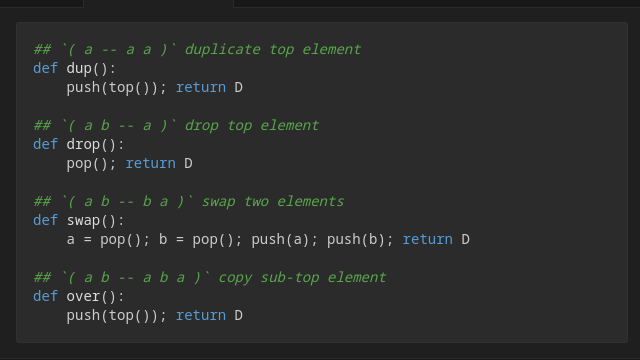
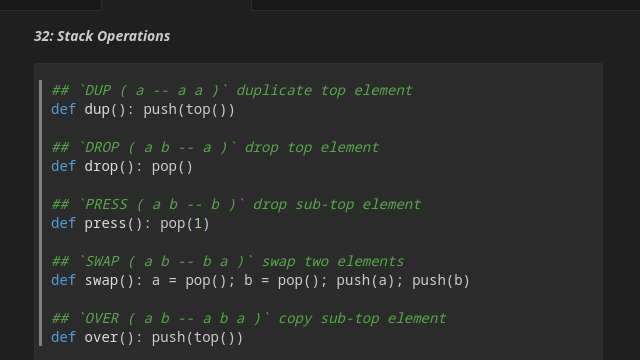
.

diff --git a/lib/test_FORTH.py b/lib/test_FORTH.py
@@ -11,42 +11,77 @@ class TestD:
     def clear_stack(self): clear()
     # yield; D.clear() # optional clean after test
 
-    def test_push(self): assert push(1) == [1]; assert D == [1]
+    class TestStack:
 
-    def test_pop(self):
-        push(1); push(2); push(3); assert D == [1, 2, 3]
-        assert pop() == 3; assert D == [1, 2]
-        assert pop(1) == 1; assert D == [2]
+        ## `( -- cell )`
+        def test_push(self):
+            push(1); assert D == [1]
 
-    def test_top(self): push(1); assert top() == 1; assert D == [1]
+        ## `( cell -- )`
+        def test_pop(self):
+            push(1); push(2); push(3); assert D == [1, 2, 3]
+            assert pop() == 3; assert D == [1, 2]
+            assert pop(1) == 1; assert D == [2]
 
-    def test_clear(self): clear(); depth(); assert D == [0]
+        ## `( cell -- cell )`
+        def test_top(self):
+            push(1); assert top() == 1; assert D == [1]
 
-    def test_depth(self):
-        assert depth() == [0]
-        push(1); push(2); push(3)
-        assert depth() == [0, 1, 2, 3, 4] # with previous and new depth's
+        ## `CLEAR ( ... -- )`
+        def test_clear(self):
+            push(1); clear(); depth(); assert D == [0]
 
-    def test_dup(self):
-        push(1); dup(); assert D == [1, 1]
+        ## `DUP ( a -- a a )`
+        def test_dup(self):
+            push(1); dup(); assert D == [1, 1]
 
-    def test_drop(self):
-        push(1); push(2); drop(); assert D == [1]
+        ## `DROP ( a b -- a )`
+        def test_drop(self):
+            push(1); push(2); drop(); assert D == [1]
 
-    def test_swap(self):
-        push(1); push(2); swap(); assert D == [2, 1]
+        ## `PRESS ( a b -- b )`
+        def test_press(self):
+            push(1); push(2); press(); assert D == [2]
 
-    def test_over(self):
-        push(1); push(2); over(); assert D == [1, 2, 1]
+        ## `SWAP ( a b -- b a )`
+        def test_swap(self):
+            push(1); push(2); swap(); assert D == [2, 1]
 
-    def test_rot(self):
-        push(1); push(2); push(3); rot(); assert D == [2, 3, 1]
+        ## `OVER ( a b -- a b a )`
+        def test_over(self):
+            push(1); push(2); over(); assert D == [1, 2, 1]
 
-    def test_mrot(self):
-        push(1); push(2); push(3); mrot(); assert D == [3, 1, 2]
+        ## `ROT ( a b c -- b c a )`
+        def test_rot(self):
+            push(1); push(2); push(3); rot(); assert D == [2, 3, 1]
 
-    def test_pick(self):
-        push(1); push(2); push(3); rot(); pick(); assert D == [2, 3, 2]
+        ## `-ROT ( a b c -- c a b )`
+        def test_mrot(self):
+            push(1); push(2); push(3); mrot(); assert D == [3, 1, 2]
+
+        ## `PICK ( ... n -- ... D[n] )`
+        def test_pick(self):
+            push(1); push(2); push(3); rot(); pick(); assert D == [2, 3, 2]
+
+        ## `DEPTH ( ... -- ... n )`
+        def test_depth(self):
+            assert depth() == [0]
+            push(1); push(2); push(3)
+            assert depth() == [0, 1, 2, 3, 4] # with previous and new depth's
+
+    class TestMath:
+
+        def test_add(self):
+            push(+123); push(-456); add(); assert D == [+123 + -456]
+
+        def test_sub(self):
+            push(+123); push(-456); add(); assert D == [+123 - -456]
+
+        def test_mul(self):
+            push(+123); push(-456); add(); assert D == [+123 * -456]
+
+        def test_div(self):
+            push(+123); push(-456); add(); assert D == [+123 / -456]
 
 ## test @ref R return stack operations
 class TestR:

diff --git a/doc/slide/slide.py b/doc/slide/slide.py
@@ -1,10 +1,10 @@
 import os, re
 import ffmpeg
 
-try: os.mkdir('tmp/slide')
-except FileExistsError: pass
+# try: os.mkdir('tmp/slide')
+# except FileExistsError: pass
 
-mp4 = 'tmp/slide/mp4.mp4'
+# mp4 = 'tmp/slide/mp4.mp4'
 
 def tts(name):
     mp3 = f'tmp/slide/{name}.mp3'
@@ -17,19 +17,19 @@ def tts(name):
     print(ru2mp3); os.system(ru2mp3)
     return mp3
 
-# video fragments
-fragment = {
-    '00': {'png': 'doc/splash.png', 'mp3': 'doc/dos.mp3', } # splashscreen
-}
+# # video fragments
+# fragment = {
+#     '00': {'png': 'doc/splash.png', 'mp3': 'doc/dos.mp3', } # splashscreen
+# }
 
-for i in filter(lambda name: re.match(r'\d+.(md|png)', name), os.listdir('doc/slide')):
-    name, ext = i.split('.')
-    if name not in fragment.keys(): fragment[name] = {}
-    match ext:
-        case 'md':
-            fragment[name]['mp3'] = f'tmp/slide/{name}.mp3'
-        case 'png':
-            fragment[name]['png'] = f'doc/slide/{name}.png'
+# for i in filter(lambda name: re.match(r'\d+.(md|png)', name), os.listdir('doc/slide')):
+#     name, ext = i.split('.')
+#     if name not in fragment.keys(): fragment[name] = {}
+#     match ext:
+#         case 'md':
+#             fragment[name]['mp3'] = f'tmp/slide/{name}.mp3'
+#         case 'png':
+#             fragment[name]['png'] = f'doc/slide/{name}.png'
 
 def slide(k, video, audio, dura):
     video = ffmpeg.input(video, loop=1, framerate=1)
@@ -65,16 +65,16 @@ grab('33', 710, 75)
 single('33')
 
 # mas
-grab('32', x=1225, y=370)
+grab('32', x=1250, y=370)
 single('32')
 
-with open('tmp/slide/fragments.list', 'w') as list:
-    with open('tmp/slide/m3u.m3u', 'w') as m3u:
-        for k in sorted(fragment.keys()):
-            single(k)
-            print(f'{k}.mp4', file=m3u)
-            print(f'file {k}.mp4', file=list)
+# with open('tmp/slide/fragments.list', 'w') as list:
+#     with open('tmp/slide/m3u.m3u', 'w') as m3u:
+#         for k in sorted(fragment.keys()):
+#             single(k)
+#             print(f'{k}.mp4', file=m3u)
+#             print(f'file {k}.mp4', file=list)
 
-os.system('cvlc tmp/slide/m3u.m3u')# --fullscreen')
-os.system('ffmpeg -f concat -safe 0 -i tmp/slide/fragments.list tmp/slide/mp4.mp4')
-os.system('vlc tmp/slide/mp4.mp4')# --fullscreen')
+# os.system('cvlc tmp/slide/m3u.m3u')# --fullscreen')
+# os.system('ffmpeg -f concat -safe 0 -i tmp/slide/fragments.list tmp/slide/mp4.mp4')
+# os.system('vlc tmp/slide/mp4.mp4')# --fullscreen')

diff --git a/lib/FORTH.py b/lib/FORTH.py
@@ -21,45 +21,67 @@ def dump():
 
 dump()
 
-## stack operations
+## Stack Operations
 
 ## `( -- cell )` push any Python object into @ref D data stack
-def push(cell): D.append(cell); return D
+def push(cell): D.append(cell)
 
 ## `( cell -- )` pop top element
 ## @param[in] idx optional stack index counting from stack top down
 def pop(idx=0): return D.pop(-1 - idx)
 
 ## `( cell -- cell )` get top element w/o removing
-def top(): return D[-1]
+def top(idx=0): return D[-1 - idx]
 
-## `( ... -- ... n )` get stack depth: number of elements
-def depth(): push(len(D)); return D
+## `CLEAR ( ... -- )` clean the whole @ref D data stack
+def clear(): D.clear()
 
-## `( ... -- )` clean the whole @ref D data stack
-def clear(): D.clear(); return D
+## `DUP ( a -- a a )` duplicate top element
+def dup(): push(top())
 
-## `( a -- a a )` duplicate top element
-def dup(): push(top()); return D
+## `DROP ( a b -- a )` drop top element
+def drop(): pop()
 
-## `( a b -- a )` drop top element
-def drop(): pop(); return D
+## `PRESS ( a b -- b )` drop sub-top element
+def press(): pop(1)
 
-## `( a b -- b a )` swap two elements
-def swap(): a = pop(); b = pop(); push(a); push(b); return D
+## `SWAP ( a b -- b a )` swap two elements
+def swap(): push(pop(1))
 
-## `( a b -- a b a )` copy sub-top element
-def over(): push(D[-2]); return D
+## `OVER ( a b -- a b a )` copy sub-top element
+def over(): push(D[-2])
 
-## `( a b c -- b c a )` rotate cw
+## `ROT ( a b c -- b c a )` rotate cw
 def rot(): push(pop(2))
 
-## `( a b c -- c a b )` rorate ccw
+## `-ROT ( a b c -- c a b )` rorate ccw
 def mrot(): D.insert(-2, pop())
 
-## `( ... n -- ... D[n] )` pick n-th stack item counting from stack top down
+## `PICK ( ... n -- ... D[n] )` pick n-th stack item counting from stack top down
 def pick(): push(D[-1 - pop()])
 
+## `DEPTH ( ... -- ... n )` get stack depth: number of elements
+def depth(): push(len(D)); return D
+
+## Arithmetic Operations
+
+## `ADD ( a b -- a+b )`
+def add(): b = pop(); a = pop(); push(a + b)
+
+## `SUB ( a b -- a-b )`
+def sub(): b = pop(); a = pop(); push(a - b)
+
+## `MUL ( a b -- a*b )`
+def mul(): b = pop(); a = pop(); push(a * b)
+
+## `DIV ( a b -- a/b )`
+def div(): b = pop(); a = pop(); push(a / b)
+
+## `MOD ( a b -- a%b )`
+def mod(): b = pop(); a = pop(); push(a % b)
+
+## `POW ( a b -- a^b )`
+def pow(): b = pop(); a = pop(); push(a ^ b)
 
 # ## used libs
 # import os, sys

diff --git a/doc/slide/32.md b/doc/slide/32.md
@@ -1,20 +1,20 @@
+***32: Stack Operations***
 
 ```py
-## `( a -- a a )` duplicate top element
-def dup():
-    push(top()); return D
+## `DUP ( a -- a a )` duplicate top element
+def dup(): push(top())
 
-## `( a b -- a )` drop top element
-def drop():
-    pop(); return D
+## `DROP ( a b -- a )` drop top element
+def drop(): pop()
 
-## `( a b -- b a )` swap two elements
-def swap():
-    a = pop(); b = pop(); push(a); push(b); return D
+## `PRESS ( a b -- b )` drop sub-top element
+def press(): pop(1)
 
-## `( a b -- a b a )` copy sub-top element
-def over():
-    push(top()); return D
+## `SWAP ( a b -- b a )` swap two elements
+def swap(): a = pop(); b = pop(); push(a); push(b)
+
+## `OVER ( a b -- a b a )` copy sub-top element
+def over(): push(top())
 ```
 
 ## subtitles

diff --git a/doc/slide/34.md b/doc/slide/34.md
@@ -1,0 +1,23 @@
+***34: Arithmetic Operations***
+
+```py
+1
+2
+3
+4
+5
+6
+7
+8
+9
+0
+1
+2
+3
+4
+5
+6
+```
+
+## subtitles
+### ru
